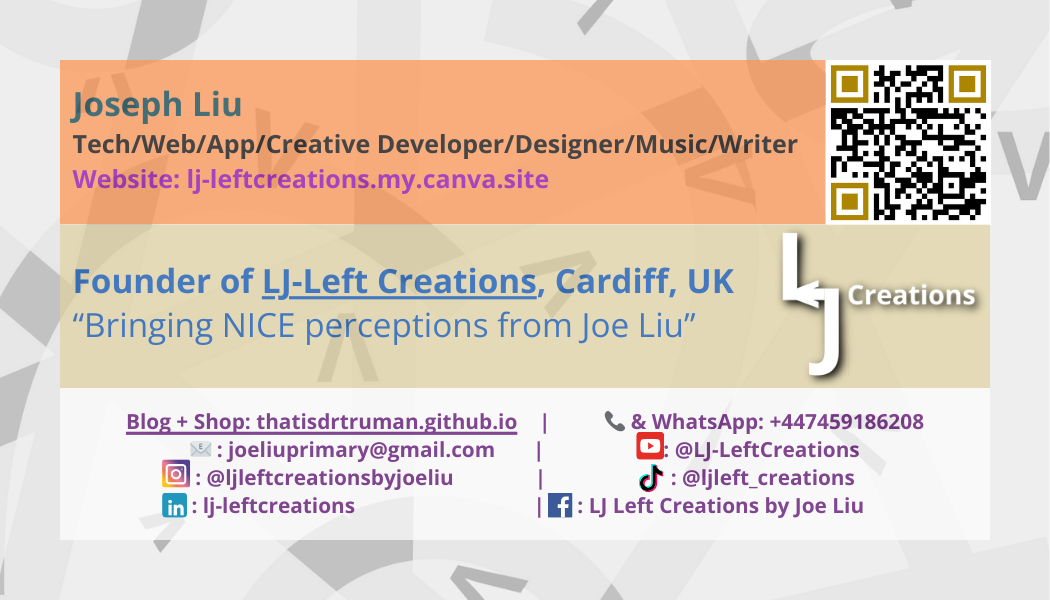
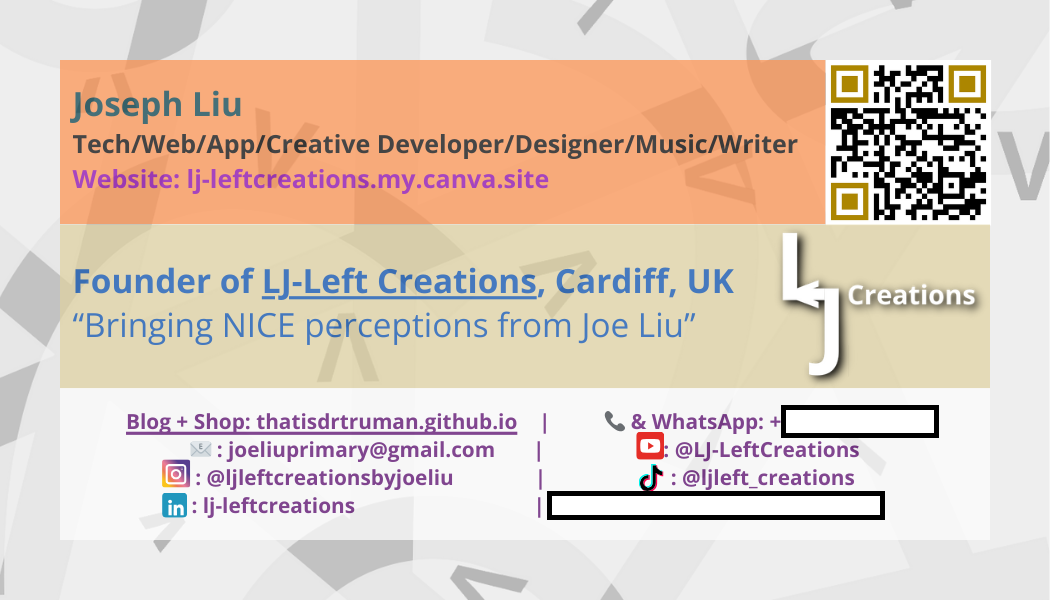
new phone number and for Whatsapp

Changed region(s): [[0.5181, 0.81, 0.8533, 0.87], [0.7314, 0.66, 0.9143, 0.75]]

diff --git a/layouts/index.html b/layouts/index.html
@@ -3,7 +3,7 @@
 updates, interactive applications, demostrations, or showcasing my skills in programming languages and frameworks.
 I also have posts and updates on my creative content, like but not just, original music, videos, podcasts, games, clothes, art, literature and poetry.">
  <article class="cf ph3 ph5-l pv3 pv4-l f4 tc-l center measure-wide lh-copy {{ $.Param "text_color" | default "mid-gray" }}">
-  <img src="/img/businesscardsitev2.jpg" alt="LJ-Left Creations Business Card. Tech/Web/App/Creative Developer/Designer/Writer/Musician Email: joeliuprimary@gmail.com">
+  <img src="/img/businesscardsitev3.jpg" alt="LJ-Left Creations Business Card. Tech/Web/App/Creative Developer/Designer/Writer/Musician Email: joeliuprimary@gmail.com">
   <p>I also create free tutorials on open source software, how-tos and tutorials. Donating will help bring content faster.</p>
   <form action="https://www.paypal.com/donate" method="post" target="_top">
     <input type="hidden" name="hosted_button_id" value="CZBKLC2NEKB7N" />

diff --git a/content/posts/canva-collection-1.md b/content/posts/canva-collection-1.md
@@ -10,7 +10,7 @@ categories = ['Design']
 {{< addtoany >}} 
 1. Business Card
 
-![Business Card](/img/businesscardsitev2.jpg)
+![Business Card](/img/businesscardsitev3.jpg)
 
 When you go onto the blog homepage, you will see both sides of the business I give, and I can edit them when I update them.
 

diff --git a/content/posts/whatsapp.md b/content/posts/whatsapp.md
@@ -7,4 +7,4 @@ featured_image = "https://upload.wikimedia.org/wikipedia/commons/6/6b/WhatsApp.s
 description = "If you like to discuss directly to me, go to the Whatsapp logo"
 categories = ['About', 'Links']
 +++
-https://wa.me/+447459186208
+https://wa.me/+447920574835
